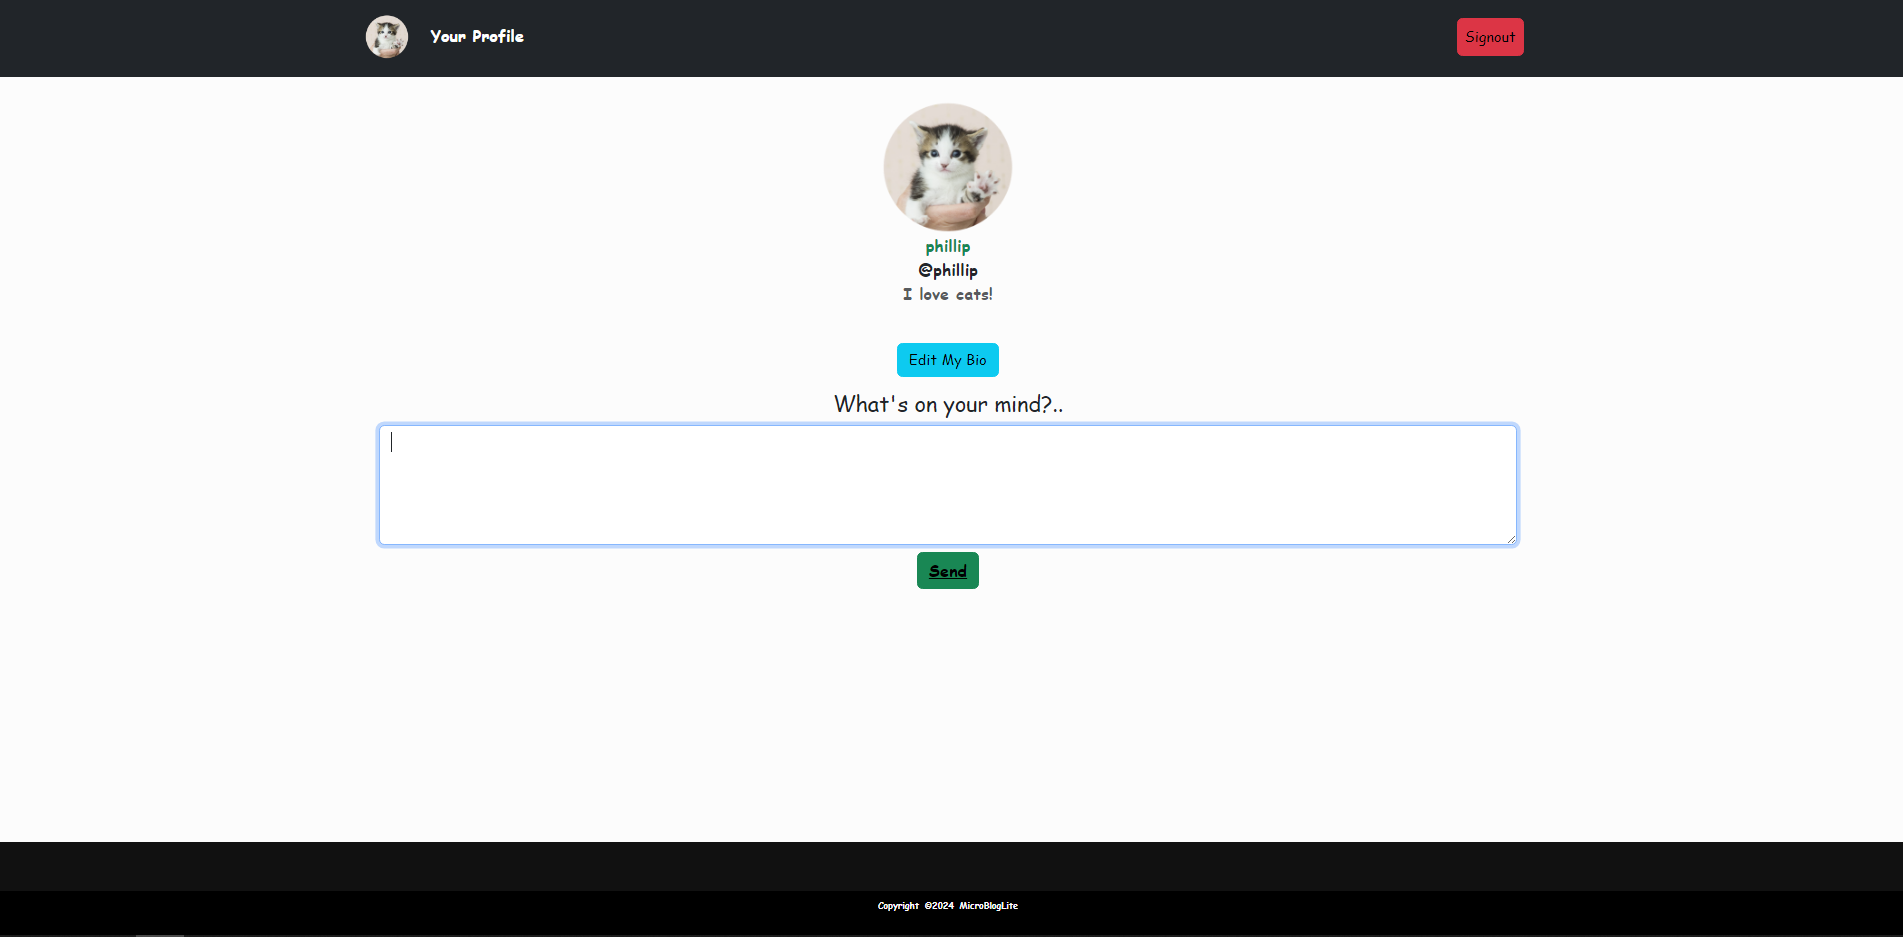
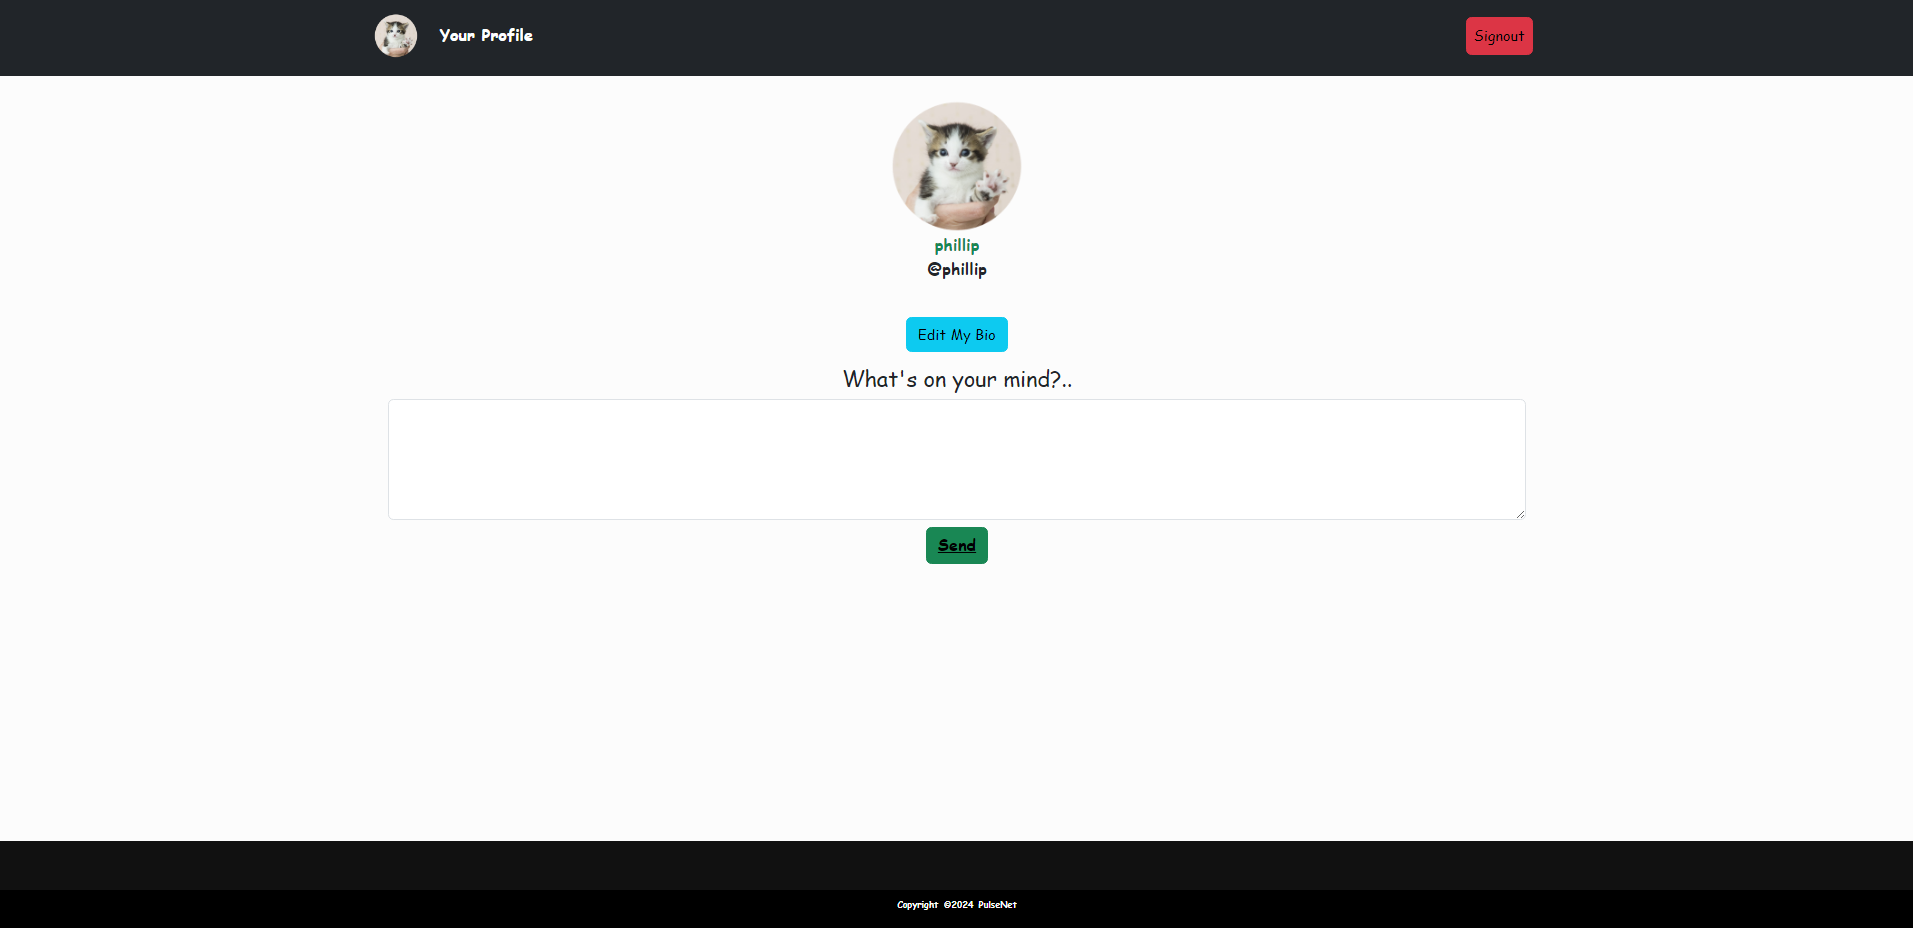
updated readme images

diff --git a/index.html b/index.html
@@ -30,7 +30,7 @@
     <script src="https://ajax.googleapis.com/ajax/libs/jquery/3.5.1/jquery.min.js"></script>
     <script src="https://ajax.googleapis.com/ajax/libs/jquery/3.5.1/jquery.min.js"></script>
 
-    <title>Login to the Microblog Network!</title>
+    <title>Login to the PulseNet!</title>
 
     <!-- Run BEFORE page is finished loading (before window.onload - don't add the `defer` attribute): -->
     <script src="/auth.js"></script>
@@ -42,7 +42,7 @@
 <body>
 
     <br><header>
-        <h1>Welcome to YOUR MICROBLOG NETWORK</h1>
+        <h1>Welcome to PulseNet</h1>
     </header>
 
     <main>
@@ -77,7 +77,7 @@
 
 
     <footer>
-        <p>&copy;2024 Microblog Network</p>
+        <p>&copy;2024 PulseNet</p>
     </footer>
 
     <!-- Page-specific code -->

diff --git a/registration/registration.html b/registration/registration.html
@@ -33,7 +33,7 @@
 
 <body>
     <header>
-        <h1>Welcome to MICROBLOG NETWORK</h1>
+        <h1>Welcome to PulseNet</h1>
     </header>
 
     <main>
@@ -75,7 +75,7 @@
 
 
     <footer>
-        <p>&copy;2024 Microblog Network</p>
+        <p>&copy;2024 PulseNet</p>
     </footer>
 
     <script src="registration.js"></script>

diff --git a/profile/profile.html b/profile/profile.html
@@ -99,7 +99,7 @@
             </ul>
         </div>
         <div class="footer-bottom">
-            <p>copyright &copy;2024 MicroBlogLite</p>
+            <p>copyright &copy;2024 PulseNet</p>
         </div>
     </footer>
 </body>

diff --git a/README.md b/README.md
@@ -28,7 +28,7 @@ Microblog Network is a web application that facilitates the sharing of short ins
 
 ###  Profile Page
 
-![Profile](/pictures/profile.pngscreenshot.png)
+![Profile](/pictures/profile.png)
 
 
 - **Description:** The profile page is a personalized space for each user.
